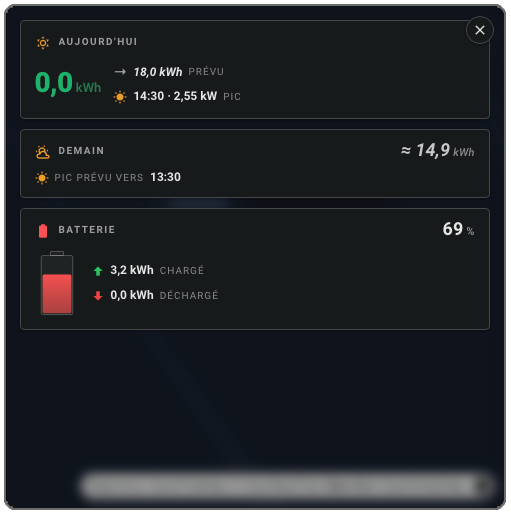
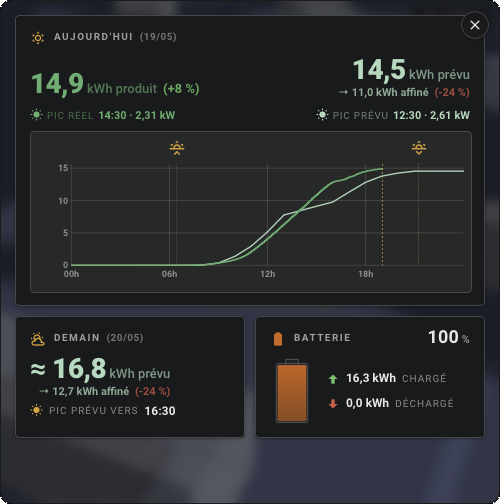
1.6.0-beta.13: refreshed previews + LiDAR registry header polish (last beta before 1.6.0 final)

diff --git a/LIDAR_PROVIDERS.html b/LIDAR_PROVIDERS.html
@@ -310,14 +310,14 @@
   <div class="brand-inner">
     <img class="brand-icon" src="images/helios_icon.png" alt="Helios" />
     <div class="brand-text">
-      <h1>LiDAR provider registry</h1>
-      <span class="brand-sub">Helios , real-time solar exposure for Home Assistant</span>
+      <h1>HELIOS Card for HA - LiDAR provider registry</h1>
+      <span class="brand-sub">Helios, 3D real-time solar exposure card for Home Assistant</span>
     </div>
   </div>
 </div>
 
 <main>
-<p class="lede">Every public elevation / LiDAR data source we have
+<p class="lede">Every public elevation / LiDAR data source I have
 inspected for <a href="https://github.com/ReikanYsora/Helios">Helios</a>,
 with status, endpoint, an example fetch URL ready to paste in a
 browser, and a worldwide map of the integrated providers' coverage.</p>